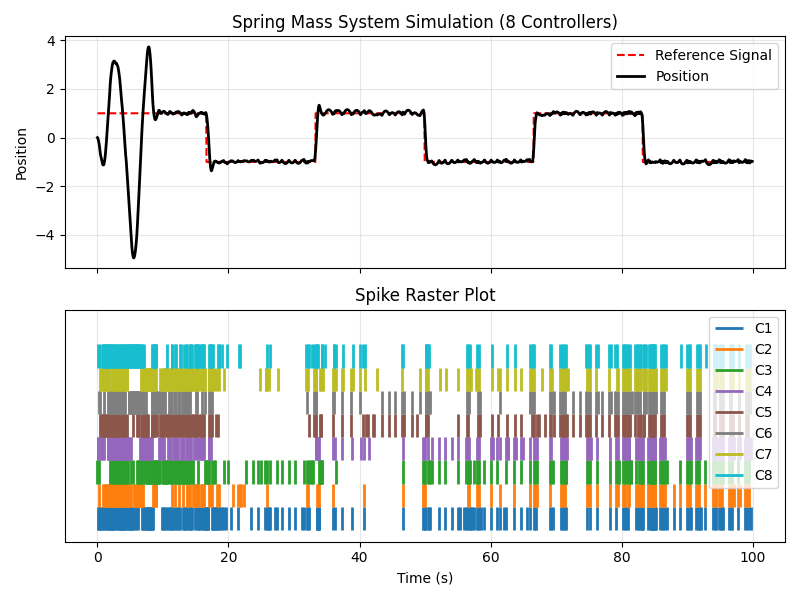
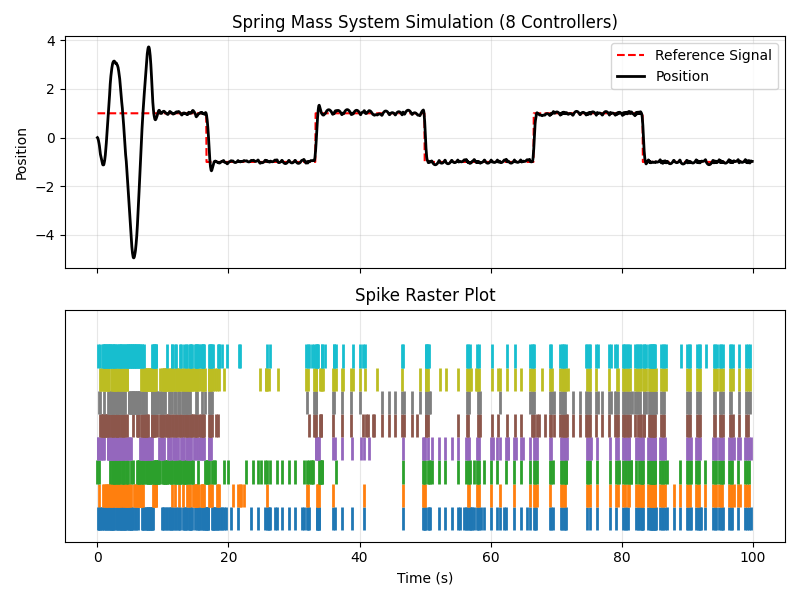
Updating README

Changed region(s): [[0.875, 0.54, 0.9688, 0.84]]

diff --git a/Visualiser.py b/Visualiser.py
@@ -124,12 +124,9 @@ class Visualiser:
         for i in range(n_neurons):
             spike_times = time_axis[spikes[:, i] > 0]
             if len(spike_times) > 0:
-                # Label for each controller
-                label = f'C{i+1}'
-                
                 ax2.eventplot([spike_times], lineoffsets=0.1 + i*0.8/n_neurons, 
                             linelengths=0.8/n_neurons, colors=[colors[i]], 
-                            linewidths=2, label=label)
+                            linewidths=2)
                 spike_detected = True
         
         if spike_detected:
@@ -144,8 +141,6 @@ class Visualiser:
         ax2.grid(True, alpha=0.3)
         ax2.set_xlabel('Time (s)')
         ax2.set_yticks([])  # Remove y-ticks from spike raster plot
-        if show_legends:
-            ax2.legend()
 
         plt.tight_layout()
         plt.show()

diff --git a/README.md b/README.md
@@ -1,17 +1,17 @@
-# Spiking Data-Driven Controller
-This repository contains to the best of my knowledge the first implementation of a Spiking Data-Driven Controller for control of Linear Time-Invariant (LTI) systems. The controller is based on the Data-Driven Design framework, where control actions or multi-step-ahead predictions are computed directly based on measured input-output data, without requiring any explicit model of the system to be controlled. This implementation also avoids the need for storing large input-output data matrices by writing the predictor in terms of covariance matrices which are updated online as the controller interacts with the system.
+# Spiking Neurons as Data-Driven Controllers for LTI Systems
+This repository contains to the best of my knowledge the first implementation of a Spiking Data-Driven Controller for control of Linear Time-Invariant (LTI) systems. The controller is based on the Data-Driven Design framework, where control actions or multi-step-ahead predictions are computed directly based on measured input-output data, without requiring any explicit model of the system to be controlled. Data-driven methods are typically expressed in terms of large data matrices containing input-output trajectories of the system. This implementation instead rewrites the predictor in terms of fixed-size covariance matrices. The covariance estimates can be updated recursively as new input-output data is collected through interaction with the system, enabling online learning and adaptation.
 
-The neuron is modelled as a data-driven predictor which predicts the future outputs of the system based on a short history of past inputs and outputs. The future outputs are predicted in two ways: (i) assuming that the neuron does not spike, and (ii) assuming that the neuron spikes. Quadratic costs are assigned to both predictions with respect to a reference signal, and a spike cost is added to the spiking prediction. The neuron spikes if the prediction with a spike yields a lower total cost than the non-spiking prediction. 
+The neuron is modelled as a data-driven multi-step-ahead predictor of the next outputs of the plant. Two covariance matrices are used to express an optimal linear predictor of future plant outputs given the planned control input and a short history of past inputs and outputs. The future outputs are predicted in two ways: (i) assuming that the neuron does not spike, and (ii) assuming that the neuron spikes. Quadratic costs are assigned to both predictions based on the deviation from a reference signal, with an additional cost associated with firing a spike. The neuron spikes if the prediction with a spike yields a lower total cost than the non-spiking prediction. 
 
-The control signal from the neuron is an impulse delivered to the system when the neuron spikes. The strength of the impulse is fixed, and hence two neurons with opposite spike signs are needed to deliver both positive and negative control actions. It is observed that greater control performance is achieved when the neurons receive the impulses from other neurons in addition to the system output, i.e., when the neurons are connected in a network. Performance is also observed to improve with more than two neurons in the network.
+The control signal from the neuron is an impulse delivered to the plant when the neuron spikes. The strength of the impulse is fixed, and hence at least two neurons with opposite spike signs are needed to deliver both positive and negative control actions. It is observed that greater control performance is achieved when the neurons receive spikes from other neurons as input in addition to the plant output, i.e., when the neurons are connected in a network. Performance is also observed to improve with more than the bare minimum of two neurons in the network.
 
 ## Results
-To illustrate the performance of the Spiking Data-Driven Controller, we consider control of a simple spring-mass-damper system using a fully connected network of spiking neurons. As illustrated below, each neuron receives the system output (the mass position) as well as the spikes from all other neurons in the network as inputs. The input to the system is the sum of the spikes from all neurons in the network.
+To illustrate the performance of the Spiking Data-Driven Controller we consider control of a simple spring-mass-damper system using a fully connected network of spiking neurons. As illustrated below, each neuron receives the plant output (the mass position) as well as the spikes from all other neurons in the network as inputs. The input to the plant is the sum of the spikes from all neurons in the network, where half of the neurons deliver positive impulses and the other half deliver negative impulses.
 
 ![Illustration](./Figures/SMD_sys.png)
 
 
-Using a network of 8 spiking neurons, the system is able to accurately track a square wave reference signal, as shown below. Note that at the start of the simulation, the neurons have no prior knowledge of the system dynamics, but learn to control the system within a few seconds of interaction.
+Using a network of eight spiking neurons, the system is able to accurately track a reference signal, as shown below. The left figure shows the mass position (black) tracking the reference signal (red) over time, with spikes from the eight neurons shown in the raster plot below. The right figure gives a zoomed-in view. Note that at the start of the simulation the neurons have no prior knowledge of the system dynamics, but learn to control the system within a few seconds of interaction.
 | ![Response](./Figures/8NeuronControl.png) | ![Response_zoom](./Figures/8NeuronControl_zoom.png) |
 |:---:|:---:|
 
